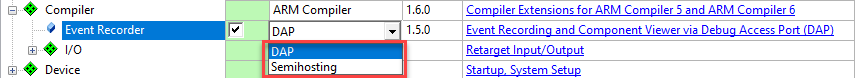
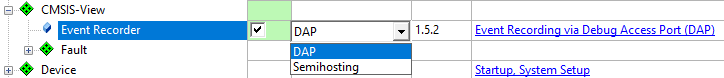
Update Event Recorder documentation (new component class)

diff --git a/Doxygen/src/EventRecorder.md b/Doxygen/src/EventRecorder.md
@@ -34,7 +34,7 @@ During program execution, the debugger reads the content of the **event buffer**
 This section describes how the **Event Recorder** collects event data, generates time stamps, and transfers this information via a debug unit to a host computer.
 
 The **Event Recorder** is implemented in the target application using the software component
-**Compiler:Event Recorder** which adds the source file *EventRecorder.c* to the application. Each event is stored in a 16-byte structure that is composed of a 16-bit *id*, 32-bit time stamp, two 32-bit data values and consistency check values.
+**CMSIS-View:Event Recorder** which adds the source file *EventRecorder.c* to the application. Each event is stored in a 16-byte structure that is composed of a 16-bit *id*, 32-bit time stamp, two 32-bit data values and consistency check values.
 
 To store these events, a circular buffer is provided that can store a minimum of 8 events. The size of this circular buffer is configurable with the
 `#define EVENT_RECORD_COUNT`.
@@ -79,7 +79,7 @@ The following sections describe:
 
 ## Configuration {#er_config}
 
-Selecting the software component **Compiler:Event Recorder** to a project will add the file *EventRecorderConf.h* that is used to define the configuration parameters of the **Event Recorder**. It uses <a href="https://open-cmsis-pack.github.io/Open-CMSIS-Pack-Spec/main/html/configWizard.html" target="_blank">Configuration Wizard Annotations</a>. For example, µVision shows a graphical representation of the settings:
+Selecting the software component **CMSIS-View:Event Recorder** to a project will add the file *EventRecorderConf.h* that is used to define the configuration parameters of the **Event Recorder**. It uses <a href="https://open-cmsis-pack.github.io/Open-CMSIS-Pack-Spec/main/html/configWizard.html" target="_blank">Configuration Wizard Annotations</a>. For example, µVision shows a graphical representation of the settings:
 
 ![EventRecorderConf.h in Configuration Wizard View](./images/config_wizard.png "EventRecorderConf.h in Configuration Wizard View")
 <br/>
@@ -203,14 +203,14 @@ The software packs for MDK-Middleware, CMSIS, CMSIS-FreeRTOS already contain the
 ## Add Event Recorder Component{#Add_Event_Recorder}
 
 To use the Event Recorder in an application, you need to:
-  - Select the software component **Compiler:Event Recorder** using the RTE management dialog.<br/>
+  - Select the software component **CMSIS-View:Event Recorder** using the RTE management dialog.<br/>
     ![Select Event Recorder](./images/SelEventRecorder.png)
     \note Usually, you select the **DAP** variant. If you are using a simulation model (FastModel or Arm Virtual Hardware),
     you can select \ref er_semihosting to write the Event Recorder data into a file on the PC.
   - Include the EventRecorder.h header file and add the event recorder initialization function to the source code:
   ```
     :
-  #include "EventRecorder.h"                        // Keil::Compiler:Event Messaging
+  #include "EventRecorder.h"                        // ARM::CMSIS-View:Event Recorder
     :
   int main (void) {
     :
@@ -260,7 +260,7 @@ For example, split IRAM1 into two regions. Reduce size of IRAM1 by 0x800 and cre
    ![Create RAM area](./images/create_iram2.png)
 
 
-3. In the **Options for Component Class 'Compiler'** dialog (opens with right-click on **EventRecorder.c** in the **Project** window), on the **Memory** tab, assign **Zero Initialized Data** to the IRAM2 region.
+3. In the **Options for Component Class 'CMSIS-View'** dialog (opens with right-click on **EventRecorder.c** in the **Project** window), on the **Memory** tab, assign **Zero Initialized Data** to the IRAM2 region.
     ![Create RAM area](./images/er_memory_location.png)
 
 4. Build the application to place the Event Recorder data buffers to uninitialized RAM. You may verify the generated scatter
@@ -288,7 +288,7 @@ For example, split IRAM1 into two regions. Reduce size of IRAM1 by 0x800 and cre
 \note
 - If the Event Recorder data buffer is not in uninitialized memory, the **Command** window of the debugger displays:
   "Warning: Event Recorder not located in uninitialized memory!".
-- <a target="_blank" href="- <a target="_blank" href="https://developer.arm.com/documentation/ka003868/latest">Knowledgebase article 4012</a> explains how to create custom memory areas in uVision.
+- <a target="_blank" href="https://developer.arm.com/documentation/ka003868/latest">Knowledgebase article 4012</a> explains how to create custom memory areas in uVision.
 - If your RAM is not big enough to separate the Event Recorder area from the Flash programming area, make sure that you
   enable "Reset and Run" for the **Download Function**:
   \image html reset_and_run.png
@@ -327,7 +327,7 @@ These \ref EventRecorder_Data functions receive as first parameter an *id* event
 
 **Example:**
 ```
-#include "EventRecorder.h"                       // Keil::Compiler:Event Messaging
+#include "EventRecorder.h"                       // ARM::CMSIS-View:Event Recorder
 
 int some_error = 0;                              // error flag
 char string[10] = "MyTest";                      // some test string
